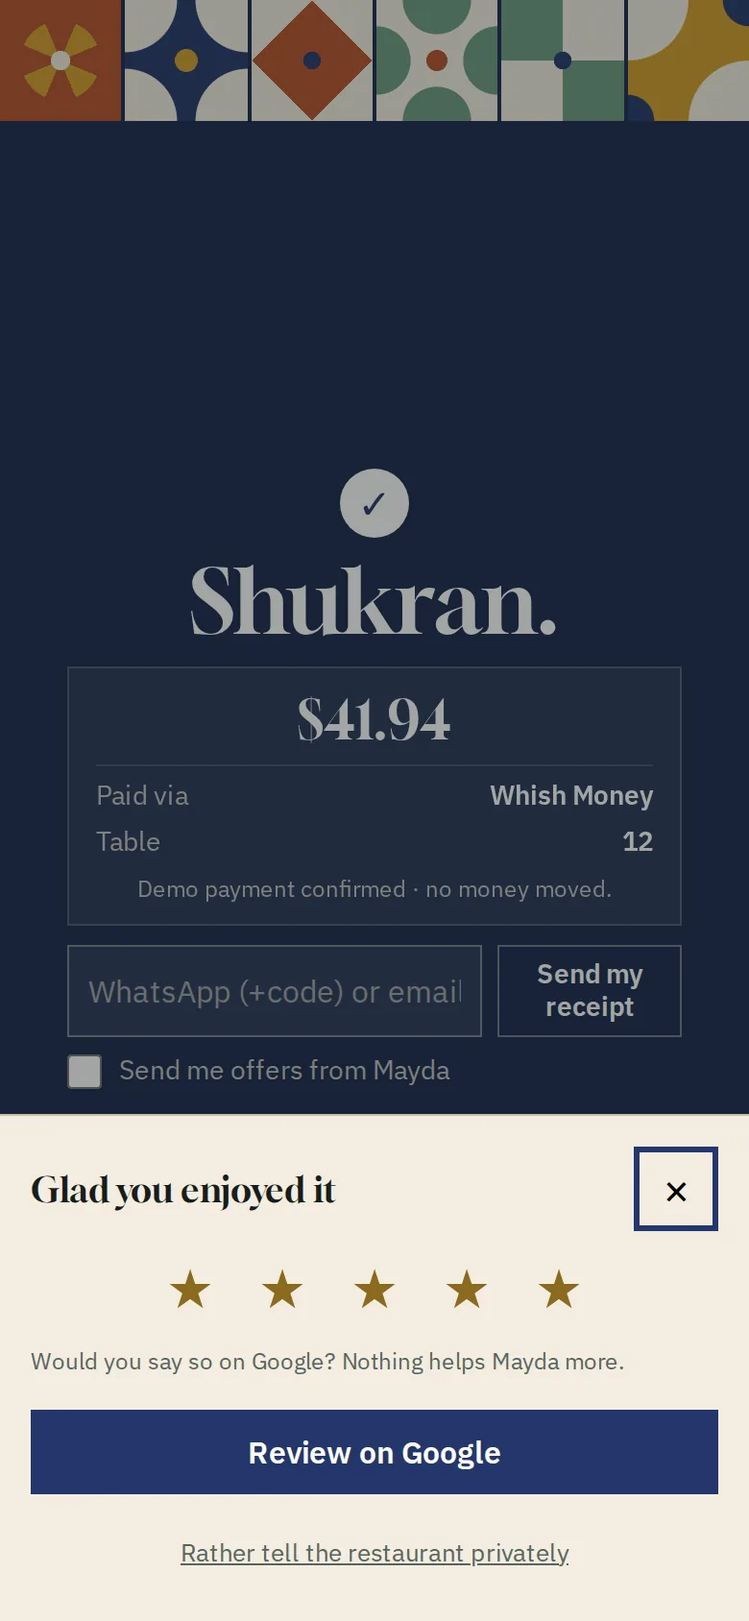
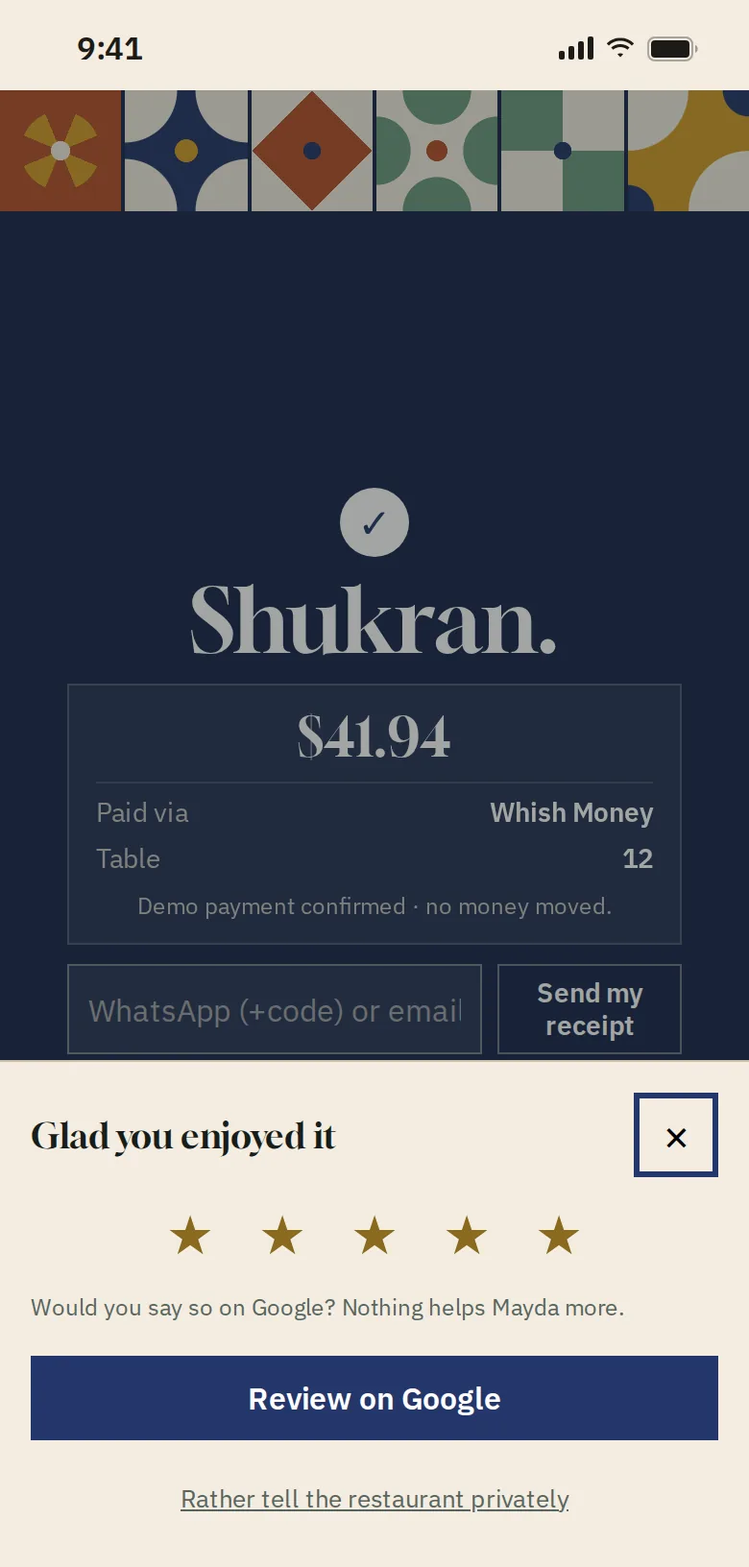
Website: phone shots with a status bar, shown whole
The phone frame cropped the top 28 px of each shot, the demo strip that is now gone,
so it cut the app's header. The shots are retaken at the frame's own shape, 390 x 816
at 2x: a phone's status bar (9:41, signal, Wi-Fi, battery), then the app, so the
frame's rounded corners only meet the status bar. The frame now keeps the top of a
shot (it would trim the foot, were one ever taller); nothing is cropped today. The
cash shot sits 64 px down its scroll so the $50 note clears the pay button with the
total still in view. The share image's phone takes the same shape (264 x 552).
website.css?v=24; <img> heights 1632.

Claude-Session: https://claude.ai/code/session_017mwzzhaL33iJSnVf4TVPSv

diff --git a/ar/index.html b/ar/index.html
@@ -26,7 +26,7 @@
 <link rel="preconnect" href="https://fonts.gstatic.com" crossorigin>
 <link href="https://fonts.googleapis.com/css2?family=Saira:wght@400;500;600;700&family=Noto+Kufi+Arabic:wght@400;500;600;700&family=Kode+Mono:wght@500;600&display=swap" rel="stylesheet">
 <link rel="preload" href="../brand/fonts/aalayna-block.woff" as="font" type="font/woff" crossorigin>
-<link rel="stylesheet" href="../website.css?v=23">
+<link rel="stylesheet" href="../website.css?v=24">
 <link rel="icon" href="../brand/icons/icon-32.png" sizes="32x32">
 <link rel="icon" href="../brand/svg/3layna/icon.svg" type="image/svg+xml">
 <link rel="apple-touch-icon" href="../brand/icons/icon-180.png">
@@ -71,10 +71,10 @@ var f=v.parentNode,pauseLabel=p.getAttribute('aria-label'),playLabel=p.getAttrib
   <section class="wrap section" id="how" aria-labelledby="how-title">
     <p class="eyebrow">من أول مسح حتى التقييم</p><h2 id="how-title">أربع خطوات. كلٌّ على راحته.</h2>
     <div class="steps">
-      <article><figure class="shot"><div class="phone small"><picture><source srcset="../images/guest-menu-plain.webp" type="image/webp"><img src="../images/guest-menu-plain.png" width="780" height="1688" loading="lazy" alt="قائمة الطعام على هاتف ضيف على الطاولة 12، مع مفتاحَي اللغة والعملة في الأعلى والأطباق مسعّرة بالدولار."></picture></div><figcaption>قائمة الطاولة، بالإنجليزية وبالدولار.</figcaption></figure><span class="number">01 · القائمة</span><h3>امسح وتصفّح</h3><p>امسح رمز QR على الطاولة. القائمة بلغتك، بالدولار أو بالليرة.</p></article>
-      <article><figure class="shot"><div class="phone small"><picture><source srcset="../images/guest-split.webp" type="image/webp"><img src="../images/guest-split.png" width="780" height="1688" loading="lazy" alt="شاشة التقسيم: الفاتورة مقسّمة بالتساوي بين 4 أشخاص، $38.13 لكل شخص، أي نحو 3,412,635 ل.ل."></picture></div><figcaption>تقسيم بالتساوي بين أربعة: $38.13 لكل واحد.</figcaption></figure><span class="number">02 · الفاتورة</span><h3>اطّلع وقسّم</h3><p>الطاولة كلها، أو بالتساوي، أو بحسب الأطباق، أو بأي مبلغ.</p></article>
-      <article><figure class="shot"><div class="phone small"><picture><source srcset="../images/guest-pay-cash.webp" type="image/webp"><img src="../images/guest-pay-cash.png" width="780" height="1688" loading="lazy" alt="شاشة الدفع مع اختيار الدفع نقداً، والضيف يختار دفع ورقة $50 عن مجموع $41.94."></picture></div><figcaption>الدفع نقداً: يختار الضيف الورقة التي سيدفعها.</figcaption></figure><span class="number">03 · الدفع</span><h3>ادفع بطريقتك</h3><p>Whish أو البطاقة أو النقد. يؤكّد الموظفون النقد عند استلامه.</p></article>
-      <article><figure class="shot"><div class="phone small"><picture><source srcset="../images/guest-review.webp" type="image/webp"><img src="../images/guest-review.png" width="780" height="1688" loading="lazy" alt="التطبيق بعد الدفع: خمس نجوم، وزر لكتابة مراجعة لـ Mayda على Google."></picture></div><figcaption>خمس نجوم، ثم مراجعة على Google.</figcaption></figure><span class="number">04 · التقييم</span><h3>قيّم زيارتك</h3><p>نقرة واحدة لتقييم الزيارة بعد الدفع، ثم مراجعة على Google أو ملاحظة خاصة. ولكل ضيف أن يختار.</p></article>
+      <article><figure class="shot"><div class="phone small"><picture><source srcset="../images/guest-menu-plain.webp" type="image/webp"><img src="../images/guest-menu-plain.png" width="780" height="1632" loading="lazy" alt="قائمة الطعام على هاتف ضيف على الطاولة 12، مع مفتاحَي اللغة والعملة في الأعلى والأطباق مسعّرة بالدولار."></picture></div><figcaption>قائمة الطاولة، بالإنجليزية وبالدولار.</figcaption></figure><span class="number">01 · القائمة</span><h3>امسح وتصفّح</h3><p>امسح رمز QR على الطاولة. القائمة بلغتك، بالدولار أو بالليرة.</p></article>
+      <article><figure class="shot"><div class="phone small"><picture><source srcset="../images/guest-split.webp" type="image/webp"><img src="../images/guest-split.png" width="780" height="1632" loading="lazy" alt="شاشة التقسيم: الفاتورة مقسّمة بالتساوي بين 4 أشخاص، $38.13 لكل شخص، أي نحو 3,412,635 ل.ل."></picture></div><figcaption>تقسيم بالتساوي بين أربعة: $38.13 لكل واحد.</figcaption></figure><span class="number">02 · الفاتورة</span><h3>اطّلع وقسّم</h3><p>الطاولة كلها، أو بالتساوي، أو بحسب الأطباق، أو بأي مبلغ.</p></article>
+      <article><figure class="shot"><div class="phone small"><picture><source srcset="../images/guest-pay-cash.webp" type="image/webp"><img src="../images/guest-pay-cash.png" width="780" height="1632" loading="lazy" alt="شاشة الدفع مع اختيار الدفع نقداً، والضيف يختار دفع ورقة $50 عن مجموع $41.94."></picture></div><figcaption>الدفع نقداً: يختار الضيف الورقة التي سيدفعها.</figcaption></figure><span class="number">03 · الدفع</span><h3>ادفع بطريقتك</h3><p>Whish أو البطاقة أو النقد. يؤكّد الموظفون النقد عند استلامه.</p></article>
+      <article><figure class="shot"><div class="phone small"><picture><source srcset="../images/guest-review.webp" type="image/webp"><img src="../images/guest-review.png" width="780" height="1632" loading="lazy" alt="التطبيق بعد الدفع: خمس نجوم، وزر لكتابة مراجعة لـ Mayda على Google."></picture></div><figcaption>خمس نجوم، ثم مراجعة على Google.</figcaption></figure><span class="number">04 · التقييم</span><h3>قيّم زيارتك</h3><p>نقرة واحدة لتقييم الزيارة بعد الدفع، ثم مراجعة على Google أو ملاحظة خاصة. ولكل ضيف أن يختار.</p></article>
     </div>
     <div class="steps-nav" hidden><button class="steps-arrow" type="button" data-step="-1" aria-label="الخطوة السابقة"><svg viewBox="0 0 24 24" width="20" height="20" aria-hidden="true" focusable="false"><path d="M15 5l-7 7 7 7"/></svg></button><span class="steps-dots"><button type="button" aria-label="الخطوة 1"></button><button type="button" aria-label="الخطوة 2"></button><button type="button" aria-label="الخطوة 3"></button><button type="button" aria-label="الخطوة 4"></button></span><button class="steps-arrow" type="button" data-step="1" aria-label="الخطوة التالية"><svg viewBox="0 0 24 24" width="20" height="20" aria-hidden="true" focusable="false"><path d="M9 5l7 7-7 7"/></svg></button></div>
     <div class="section-cta"><a class="btn" data-track="booking_click" data-placement="how" href="../book.html">احجز عرضاً توضيحياً</a></div>

diff --git a/fr/index.html b/fr/index.html
@@ -26,7 +26,7 @@
 <link rel="preconnect" href="https://fonts.gstatic.com" crossorigin>
 <link href="https://fonts.googleapis.com/css2?family=Saira:wght@400;500;600;700&family=Noto+Kufi+Arabic:wght@400;500;600;700&family=Kode+Mono:wght@500;600&display=swap" rel="stylesheet">
 <link rel="preload" href="../brand/fonts/aalayna-block.woff" as="font" type="font/woff" crossorigin>
-<link rel="stylesheet" href="../website.css?v=23">
+<link rel="stylesheet" href="../website.css?v=24">
 <link rel="icon" href="../brand/icons/icon-32.png" sizes="32x32">
 <link rel="icon" href="../brand/svg/3layna/icon.svg" type="image/svg+xml">
 <link rel="apple-touch-icon" href="../brand/icons/icon-180.png">
@@ -71,10 +71,10 @@ var f=v.parentNode,pauseLabel=p.getAttribute('aria-label'),playLabel=p.getAttrib
   <section class="wrap section" id="how" aria-labelledby="how-title">
     <p class="eyebrow">Du premier scan à l’avis</p><h2 id="how-title">Quatre étapes. À leur rythme.</h2>
     <div class="steps">
-      <article><figure class="shot"><div class="phone small"><picture><source srcset="../images/guest-menu-plain.webp" type="image/webp"><img src="../images/guest-menu-plain.png" width="780" height="1688" loading="lazy" alt="Le menu sur le téléphone d’un client à la table 12, avec le choix de la langue et de la devise en haut et les plats affichés en dollars."></picture></div><figcaption>Le menu de la table, ici en anglais et en dollars.</figcaption></figure><span class="number">01 · Menu</span><h3>Scanner et consulter</h3><p>Un scan du QR de la table. Le menu dans sa langue, en dollars ou en livres.</p></article>
-      <article><figure class="shot"><div class="phone small"><picture><source srcset="../images/guest-split.webp" type="image/webp"><img src="../images/guest-split.png" width="780" height="1688" loading="lazy" alt="L’écran de partage&#8239;: l’addition divisée à parts égales entre 4 personnes, $38.13 chacune, soit environ LL 3,412,635."></picture></div><figcaption>À parts égales entre quatre&#8239;: $38.13 chacun.</figcaption></figure><span class="number">02 · Addition</span><h3>Voir et partager</h3><p>Toute la table, à parts égales, par plat ou au montant choisi.</p></article>
-      <article><figure class="shot"><div class="phone small"><picture><source srcset="../images/guest-pay-cash.webp" type="image/webp"><img src="../images/guest-pay-cash.png" width="780" height="1688" loading="lazy" alt="L’écran de paiement avec les espèces sélectionnées&#8239;: le client indique qu’il remettra un billet de $50 pour un total de $41.94."></picture></div><figcaption>Paiement en espèces&#8239;: le client choisit son billet.</figcaption></figure><span class="number">03 · Paiement</span><h3>Régler à sa façon</h3><p>Whish, carte ou espèces. L’équipe confirme les espèces à l’encaissement.</p></article>
-      <article><figure class="shot"><div class="phone small"><picture><source srcset="../images/guest-review.webp" type="image/webp"><img src="../images/guest-review.png" width="780" height="1688" loading="lazy" alt="L’application après le paiement&#8239;: cinq étoiles, et un bouton pour laisser un avis sur Google à Mayda."></picture></div><figcaption>Cinq étoiles, puis un avis sur Google.</figcaption></figure><span class="number">04 · Avis</span><h3>Noter et recommander</h3><p>Un geste pour noter la visite après le paiement, puis un avis Google ou un mot en privé. Chaque client peut faire l’un ou l’autre.</p></article>
+      <article><figure class="shot"><div class="phone small"><picture><source srcset="../images/guest-menu-plain.webp" type="image/webp"><img src="../images/guest-menu-plain.png" width="780" height="1632" loading="lazy" alt="Le menu sur le téléphone d’un client à la table 12, avec le choix de la langue et de la devise en haut et les plats affichés en dollars."></picture></div><figcaption>Le menu de la table, ici en anglais et en dollars.</figcaption></figure><span class="number">01 · Menu</span><h3>Scanner et consulter</h3><p>Un scan du QR de la table. Le menu dans sa langue, en dollars ou en livres.</p></article>
+      <article><figure class="shot"><div class="phone small"><picture><source srcset="../images/guest-split.webp" type="image/webp"><img src="../images/guest-split.png" width="780" height="1632" loading="lazy" alt="L’écran de partage&#8239;: l’addition divisée à parts égales entre 4 personnes, $38.13 chacune, soit environ LL 3,412,635."></picture></div><figcaption>À parts égales entre quatre&#8239;: $38.13 chacun.</figcaption></figure><span class="number">02 · Addition</span><h3>Voir et partager</h3><p>Toute la table, à parts égales, par plat ou au montant choisi.</p></article>
+      <article><figure class="shot"><div class="phone small"><picture><source srcset="../images/guest-pay-cash.webp" type="image/webp"><img src="../images/guest-pay-cash.png" width="780" height="1632" loading="lazy" alt="L’écran de paiement avec les espèces sélectionnées&#8239;: le client indique qu’il remettra un billet de $50 pour un total de $41.94."></picture></div><figcaption>Paiement en espèces&#8239;: le client choisit son billet.</figcaption></figure><span class="number">03 · Paiement</span><h3>Régler à sa façon</h3><p>Whish, carte ou espèces. L’équipe confirme les espèces à l’encaissement.</p></article>
+      <article><figure class="shot"><div class="phone small"><picture><source srcset="../images/guest-review.webp" type="image/webp"><img src="../images/guest-review.png" width="780" height="1632" loading="lazy" alt="L’application après le paiement&#8239;: cinq étoiles, et un bouton pour laisser un avis sur Google à Mayda."></picture></div><figcaption>Cinq étoiles, puis un avis sur Google.</figcaption></figure><span class="number">04 · Avis</span><h3>Noter et recommander</h3><p>Un geste pour noter la visite après le paiement, puis un avis Google ou un mot en privé. Chaque client peut faire l’un ou l’autre.</p></article>
     </div>
     <div class="steps-nav" hidden><button class="steps-arrow" type="button" data-step="-1" aria-label="Étape précédente"><svg viewBox="0 0 24 24" width="20" height="20" aria-hidden="true" focusable="false"><path d="M15 5l-7 7 7 7"/></svg></button><span class="steps-dots"><button type="button" aria-label="Étape 1"></button><button type="button" aria-label="Étape 2"></button><button type="button" aria-label="Étape 3"></button><button type="button" aria-label="Étape 4"></button></span><button class="steps-arrow" type="button" data-step="1" aria-label="Étape suivante"><svg viewBox="0 0 24 24" width="20" height="20" aria-hidden="true" focusable="false"><path d="M9 5l7 7-7 7"/></svg></button></div>
     <div class="section-cta"><a class="btn" data-track="booking_click" data-placement="how" href="../book.html">Réserver une démo</a></div>

diff --git a/index.html b/index.html
@@ -26,7 +26,7 @@
 <link rel="preconnect" href="https://fonts.gstatic.com" crossorigin>
 <link href="https://fonts.googleapis.com/css2?family=Saira:wght@400;500;600;700&family=Noto+Kufi+Arabic:wght@400;500;600;700&family=Kode+Mono:wght@500;600&display=swap" rel="stylesheet">
 <link rel="preload" href="brand/fonts/aalayna-block.woff" as="font" type="font/woff" crossorigin>
-<link rel="stylesheet" href="website.css?v=23">
+<link rel="stylesheet" href="website.css?v=24">
 <link rel="icon" href="brand/icons/icon-32.png" sizes="32x32">
 <link rel="icon" href="brand/svg/3layna/icon.svg" type="image/svg+xml">
 <link rel="apple-touch-icon" href="brand/icons/icon-180.png">
@@ -71,10 +71,10 @@ var f=v.parentNode,pauseLabel=p.getAttribute('aria-label'),playLabel=p.getAttrib
   <section class="wrap section" id="how" aria-labelledby="how-title">
     <p class="eyebrow">From the first scan to the review</p><h2 id="how-title">Four steps. At their own pace.</h2>
     <div class="steps">
-      <article><figure class="shot"><div class="phone small"><picture><source srcset="images/guest-menu-plain.webp" type="image/webp"><img src="images/guest-menu-plain.png" width="780" height="1688" loading="lazy" alt="The menu on a guest's phone at table 12, with the language and currency switches at the top and dishes priced in dollars."></picture></div><figcaption>The table’s menu, in English and dollars.</figcaption></figure><span class="number">01 · Menu</span><h3>Scan &amp; browse</h3><p>Scan the table QR. The menu in their language, in dollars or lira.</p></article>
-      <article><figure class="shot"><div class="phone small"><picture><source srcset="images/guest-split.webp" type="image/webp"><img src="images/guest-split.png" width="780" height="1688" loading="lazy" alt="The split screen: the bill divided evenly between 4 people, $38.13 each, about LL 3,412,635."></picture></div><figcaption>Split evenly between four: $38.13 each.</figcaption></figure><span class="number">02 · Bill</span><h3>View &amp; split</h3><p>Pay it all, split evenly, pick items or choose an amount.</p></article>
-      <article><figure class="shot"><div class="phone small"><picture><source srcset="images/guest-pay-cash.webp" type="image/webp"><img src="images/guest-pay-cash.png" width="780" height="1688" loading="lazy" alt="The payment screen with paying cash selected and the guest choosing to hand over a $50 note for a $41.94 total."></picture></div><figcaption>Paying cash: the guest picks their note.</figcaption></figure><span class="number">03 · Payment</span><h3>Settle your way</h3><p>Whish, card or cash. Staff confirm cash when they collect it.</p></article>
-      <article><figure class="shot"><div class="phone small"><picture><source srcset="images/guest-review.webp" type="image/webp"><img src="images/guest-review.png" width="780" height="1688" loading="lazy" alt="The guest app after paying: five stars given, and a button to review Mayda on Google."></picture></div><figcaption>Five stars, then a review on Google.</figcaption></figure><span class="number">04 · Review</span><h3>Rate &amp; review</h3><p>One tap to rate the visit after paying, then a Google review or a private note. Every guest can do either.</p></article>
+      <article><figure class="shot"><div class="phone small"><picture><source srcset="images/guest-menu-plain.webp" type="image/webp"><img src="images/guest-menu-plain.png" width="780" height="1632" loading="lazy" alt="The menu on a guest's phone at table 12, with the language and currency switches at the top and dishes priced in dollars."></picture></div><figcaption>The table’s menu, in English and dollars.</figcaption></figure><span class="number">01 · Menu</span><h3>Scan &amp; browse</h3><p>Scan the table QR. The menu in their language, in dollars or lira.</p></article>
+      <article><figure class="shot"><div class="phone small"><picture><source srcset="images/guest-split.webp" type="image/webp"><img src="images/guest-split.png" width="780" height="1632" loading="lazy" alt="The split screen: the bill divided evenly between 4 people, $38.13 each, about LL 3,412,635."></picture></div><figcaption>Split evenly between four: $38.13 each.</figcaption></figure><span class="number">02 · Bill</span><h3>View &amp; split</h3><p>Pay it all, split evenly, pick items or choose an amount.</p></article>
+      <article><figure class="shot"><div class="phone small"><picture><source srcset="images/guest-pay-cash.webp" type="image/webp"><img src="images/guest-pay-cash.png" width="780" height="1632" loading="lazy" alt="The payment screen with paying cash selected and the guest choosing to hand over a $50 note for a $41.94 total."></picture></div><figcaption>Paying cash: the guest picks their note.</figcaption></figure><span class="number">03 · Payment</span><h3>Settle your way</h3><p>Whish, card or cash. Staff confirm cash when they collect it.</p></article>
+      <article><figure class="shot"><div class="phone small"><picture><source srcset="images/guest-review.webp" type="image/webp"><img src="images/guest-review.png" width="780" height="1632" loading="lazy" alt="The guest app after paying: five stars given, and a button to review Mayda on Google."></picture></div><figcaption>Five stars, then a review on Google.</figcaption></figure><span class="number">04 · Review</span><h3>Rate &amp; review</h3><p>One tap to rate the visit after paying, then a Google review or a private note. Every guest can do either.</p></article>
     </div>
     <div class="steps-nav" hidden><button class="steps-arrow" type="button" data-step="-1" aria-label="Previous step"><svg viewBox="0 0 24 24" width="20" height="20" aria-hidden="true" focusable="false"><path d="M15 5l-7 7 7 7"/></svg></button><span class="steps-dots"><button type="button" aria-label="Step 1"></button><button type="button" aria-label="Step 2"></button><button type="button" aria-label="Step 3"></button><button type="button" aria-label="Step 4"></button></span><button class="steps-arrow" type="button" data-step="1" aria-label="Next step"><svg viewBox="0 0 24 24" width="20" height="20" aria-hidden="true" focusable="false"><path d="M9 5l7 7-7 7"/></svg></button></div>
     <div class="section-cta"><a class="btn" data-track="booking_click" data-placement="how" href="book.html">Book a demo</a></div>

diff --git a/website.css b/website.css
@@ -80,11 +80,11 @@ section[id],main[id]{scroll-margin-top:var(--header-h)}
 .actions{display:flex;flex-wrap:wrap;gap:.8rem;margin-top:1.7rem}
 .fine{font-size:var(--fs-small);line-height:1.55;margin-top:1rem}
 
-/* Product screens. Phone shots are 390 x 844 at 2x; the top 28 px is a demo strip live venues never show,
-   so the frame is 390 x 816 and the image is anchored to the bottom. */
+/* Product screens. Phone shots are 390 x 816 at 2x, the frame's own shape: a phone's status bar, then the app.
+   The whole shot shows; were one ever taller, the frame would keep its top and trim the foot. */
 .phone{width:100%;max-width:18rem;padding:.5rem;border-radius:2.5rem;background:var(--ink)}
 .phone picture{display:block;overflow:hidden;border-radius:2rem;background:var(--surface)}
-.phone img{display:block;width:100%;height:auto;aspect-ratio:390/816;object-fit:cover;object-position:50% 100%}
+.phone img{display:block;width:100%;height:auto;aspect-ratio:390/816;object-fit:cover;object-position:50% 0}
 .phone.small{max-width:13.5rem;padding:.375rem;border-radius:1.9rem}.phone.small picture{border-radius:1.55rem}
 .shot{display:flex;flex-direction:column;align-items:center}
 .shot figcaption{max-width:22rem;margin-top:.9rem;font-size:var(--fs-small);line-height:1.5;color:var(--sub);text-align:center}

diff --git a/tools/brand.js b/tools/brand.js
@@ -170,7 +170,7 @@ body{position:relative;width:1200px;height:630px;overflow:hidden;background:${C.
 .copy{position:absolute;left:90px;top:50%;transform:translateY(-50%)}
 .eyebrow{margin:0 0 34px;font:600 22px/1 'Kode Mono',monospace;letter-spacing:.06em;text-transform:uppercase;color:#B3363F}
 .copy svg{display:block}
-.phone{position:absolute;left:818px;top:38px;width:250px;height:552px;padding:10px;border-radius:42px;background:${C.ink};box-shadow:18px 18px 0 rgba(33,27,22,.08)}
+.phone{position:absolute;left:804px;top:38px;width:264px;height:552px;padding:10px;border-radius:42px;background:${C.ink};box-shadow:18px 18px 0 rgba(33,27,22,.08)}
 .phone img{display:block;width:100%;height:100%;border-radius:32px;object-fit:cover;object-position:50% 0}
 </style></head><body>
 <div class="copy"><p class="eyebrow">For restaurants in Lebanon</p>

diff --git a/book.html b/book.html
@@ -19,7 +19,7 @@
 <link rel="preconnect" href="https://fonts.gstatic.com" crossorigin>
 <link href="https://fonts.googleapis.com/css2?family=Saira:wght@400;500;600;700&family=Noto+Kufi+Arabic:wght@400;500;600;700&family=Kode+Mono:wght@500;600&display=swap" rel="stylesheet">
 <link rel="preload" href="brand/fonts/aalayna-block.woff" as="font" type="font/woff" crossorigin>
-<link rel="stylesheet" href="website.css?v=23">
+<link rel="stylesheet" href="website.css?v=24">
 <link rel="icon" href="brand/icons/icon-32.png" sizes="32x32">
 <link rel="icon" href="brand/svg/3layna/icon.svg" type="image/svg+xml">
 <link rel="apple-touch-icon" href="brand/icons/icon-180.png">

diff --git a/numbers.html b/numbers.html
@@ -20,7 +20,7 @@
 <link rel="preconnect" href="https://fonts.gstatic.com" crossorigin>
 <link href="https://fonts.googleapis.com/css2?family=Saira:wght@400;500;600;700&family=Kode+Mono:wght@500;600&display=swap" rel="stylesheet">
 <link rel="preload" href="brand/fonts/aalayna-block.woff" as="font" type="font/woff" crossorigin>
-<link rel="stylesheet" href="website.css?v=23">
+<link rel="stylesheet" href="website.css?v=24">
 <link rel="icon" href="brand/icons/icon-32.png" sizes="32x32">
 <link rel="icon" href="brand/svg/3layna/icon.svg" type="image/svg+xml">
 <link rel="apple-touch-icon" href="brand/icons/icon-180.png">
